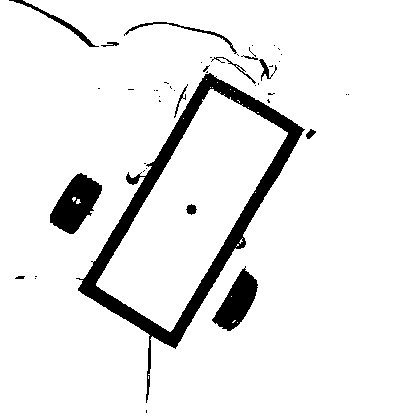
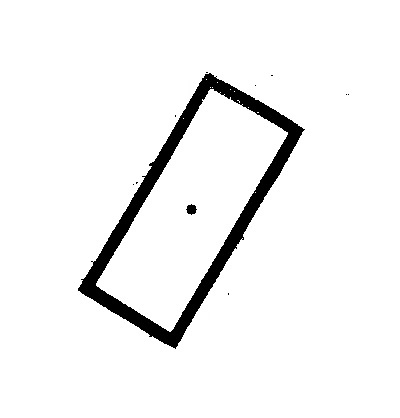
puuuusshh

diff --git a/lineaRecta/codigoCentroDeMasa/finder.py b/lineaRecta/codigoCentroDeMasa/finder.py
@@ -1,0 +1,81 @@
+from PIL import Image
+import numpy as np
+import cv2
+import os
+
+
+
+
+
+def dilate_erode_image(image_path):
+    # Load the image
+    image = cv2.imread(image_path, 0)
+
+    # Invert colors
+    inverted_image = cv2.bitwise_not(image)
+
+    # Define the kernel
+    kernel = np.ones((5, 5), np.uint8)
+
+    # Apply dilation
+    dilated_image = cv2.dilate(inverted_image, kernel, iterations=3)
+
+    # Apply erosion
+    eroded_image = cv2.erode(dilated_image, kernel, iterations=1)
+
+    # Invert colors back
+    final_image = cv2.bitwise_not(eroded_image)
+
+    # Split the file path into directory, filename, and extension
+    dir_path, filename = os.path.split(image_path)
+    base, ext = os.path.splitext(filename)
+
+    # Create a new filename by inserting "mod" before the extension
+    new_filename = f"{base}_mod{ext}"
+
+    # Join the directory path and the new filename
+    path = os.path.join(dir_path, new_filename)
+    print(path)
+
+    # Save the image
+    cv2.imwrite(path, final_image)
+
+def combine_images(image1_path, image2_path):
+    # Open the images and convert them to RGB
+    image1 = Image.open(image1_path).convert("RGB")
+    image2 = Image.open(image2_path).convert("RGB")
+
+    # Resize images to the smallest size
+    min_size = min(image1.size, image2.size)
+    image1 = image1.resize(min_size)
+    image2 = image2.resize(min_size)
+
+    # Convert images to numpy arrays
+    image1_data = np.array(image1)
+    image2_data = np.array(image2)
+
+    # Create a new image with the same size and RGB format
+    new_image_data = np.zeros(image1_data.shape, dtype=np.uint8)
+
+    # Set the green channel to the first image's black pixels
+    new_image_data[(image1_data[:, :, 0] == 0) & (
+        image1_data[:, :, 1] == 0) & (image1_data[:, :, 2] == 0)] = [0, 255, 0]
+
+    # Set the red channel to the second image's black pixels
+    new_image_data[(image2_data[:, :, 0] == 0) & (
+        image2_data[:, :, 1] == 0) & (image2_data[:, :, 2] == 0)] = [255, 0, 0]
+
+    # Create a new image from the data
+    new_image = Image.fromarray(new_image_data)
+
+    return new_image
+
+
+list_images = ['lineaRecta\\codigoCentroDeMasa\\IMGCut.jpg', 'lineaRecta\\codigoCentroDeMasa\\IMGCut2.jpg', 'lineaRecta/codigoCentroDeMasa/IMGIzqCut.jpg', 'lineaRecta/codigoCentroDeMasa/IMGIzqCut2.jpg']
+for img in list_images:
+    dilate_erode_image(img)
+    
+# Use the function
+#new_image = combine_images(
+#    'lineaRecta\\codigoCentroDeMasa\\IMGCutmod.jpg', 'lineaRecta\\codigoCentroDeMasa\\IMGCut2mod.jpg')
+#new_image.save('lineaRecta\\codigoCentroDeMasa\combined_image1.png')

diff --git a/lineaRecta/codigoCentroDeMasa/determinadorCentroDeMasa.py b/lineaRecta/codigoCentroDeMasa/determinadorCentroDeMasa.py
@@ -120,10 +120,10 @@ def calculate_center_of_rotation(video_path):
             cv2.imshow("BWframe", BWframe)
             cv2.imshow("IMGCut", img_croped)
 
-            if i == 170:  # 150
-                cv2.imwrite("IMGIzqCut.jpg", img_croped)
-            elif i == 180:  # 170
-                cv2.imwrite("IMGIzqCut2.jpg", img_croped)
+            if i == 0: #170:  # 150
+                cv2.imwrite("IMGCut.jpg", img_croped)
+            elif i == 95: #180:  # 170
+                cv2.imwrite("IMGCut2.jpg", img_croped)
             # Update the slider position
             
             i += 1
@@ -142,7 +142,7 @@ def calculate_center_of_rotation(video_path):
 
 
 # Calculate the center of rotation for "giroDerecha.mp4"
-#calculate_center_of_rotation("giroDerecha.mp4")
+calculate_center_of_rotation("giroDerecha.mp4")
 
 # Calculate the center of rotation for "giroIzquierda.mp4"
-calculate_center_of_rotation("giroIzquierda.mp4")
+#calculate_center_of_rotation("giroIzquierda.mp4")
